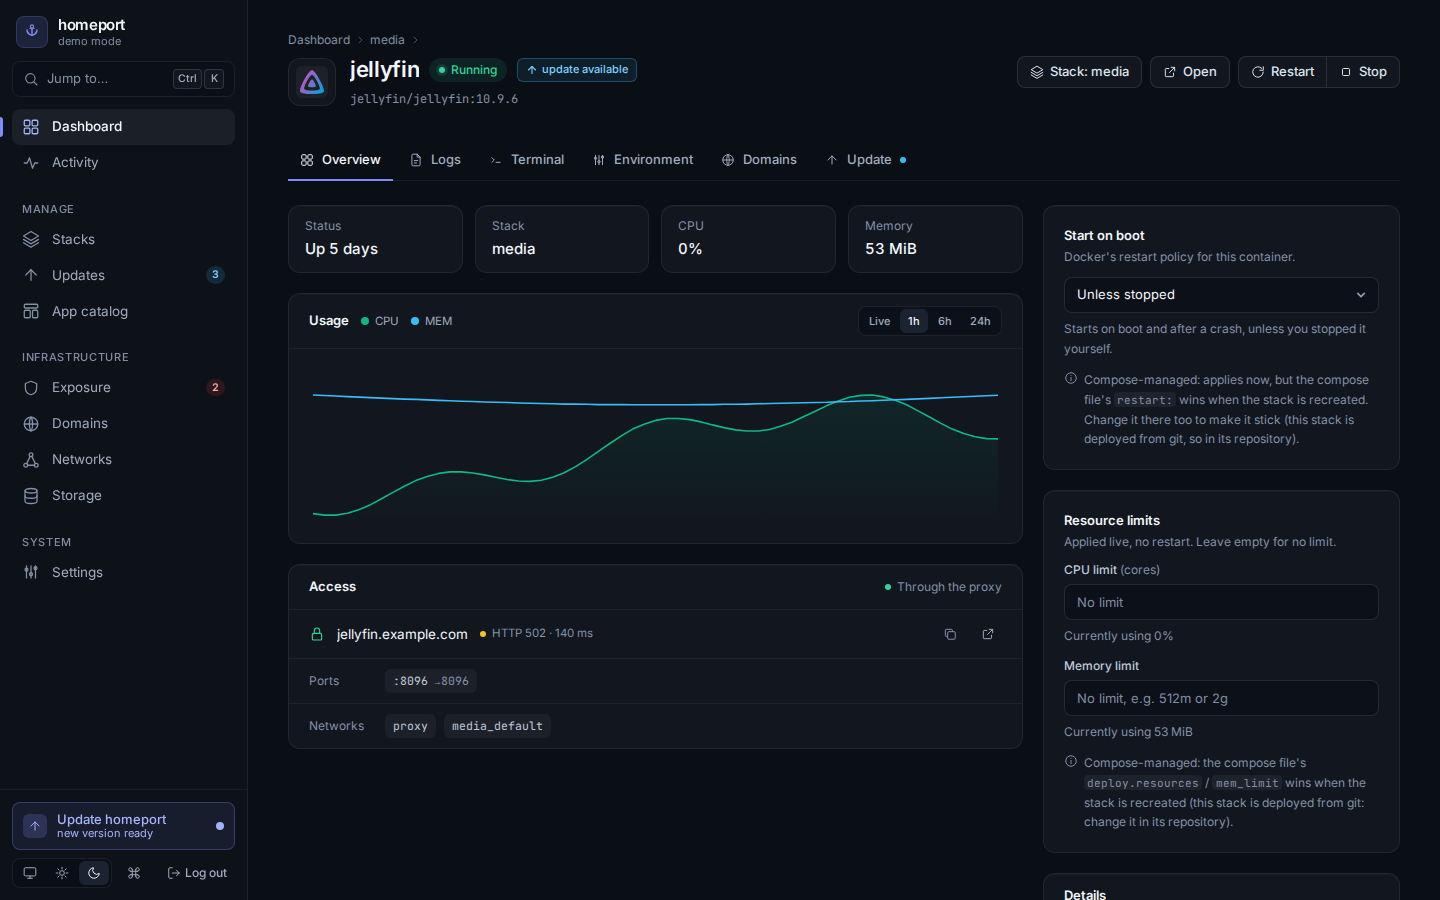
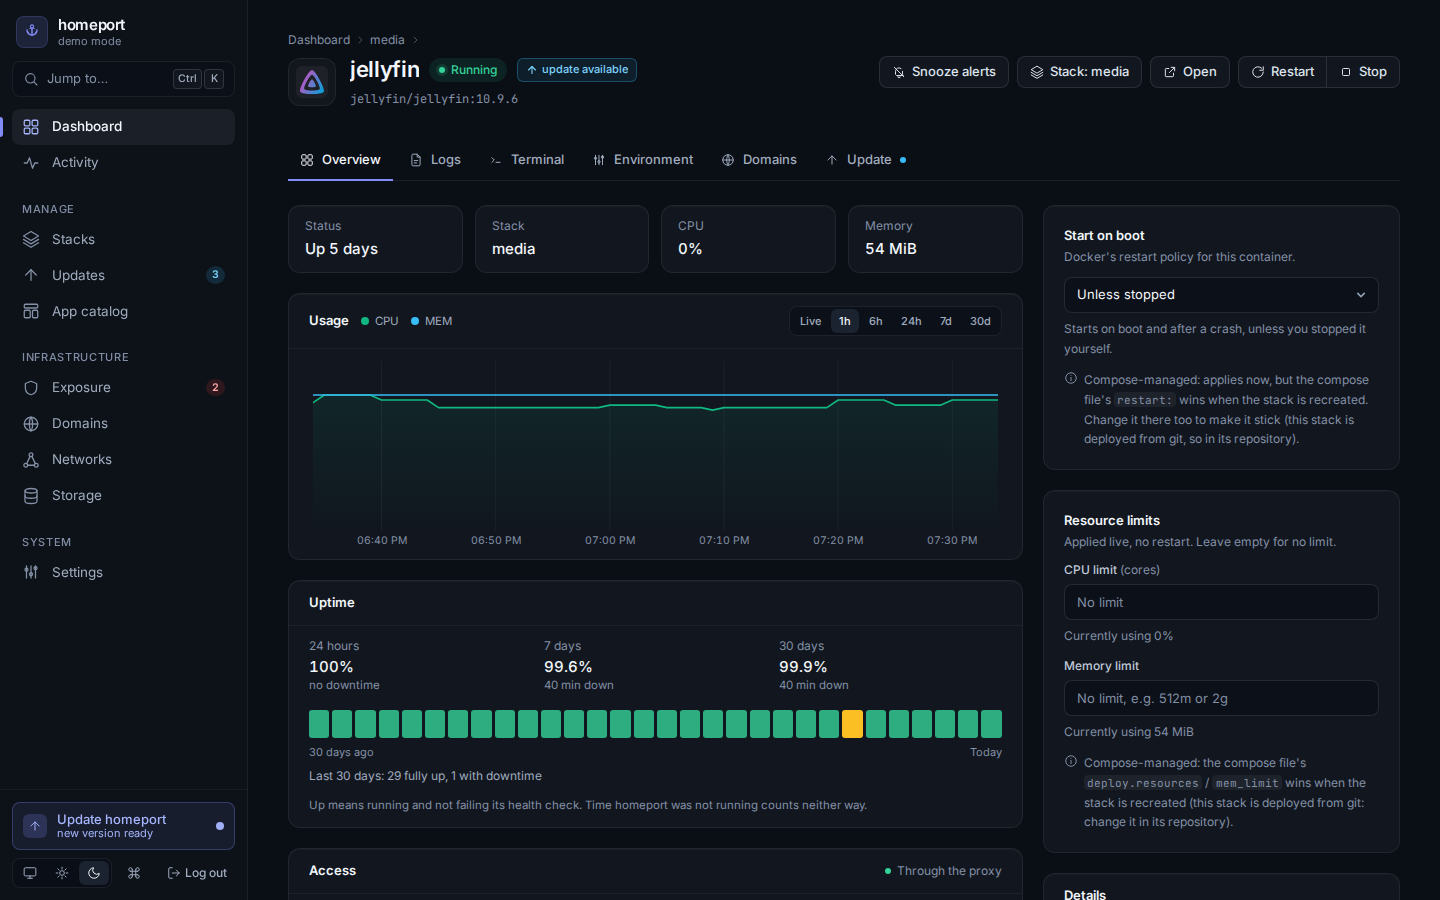
v2.38.0: single sign-on, status page, certificate alerts, snooze, 30-day history and metrics, deploy on push, MCP, more domain sources

diff --git a/README.md b/README.md
@@ -125,6 +125,10 @@ Every container has its own page — overview, logs, terminal, domains, and upda
 
 ![service page](docs/service-page.png)
 
+And, if you switch it on, a public status page for the people who use your apps:
+
+![status page](docs/status-page.png)
+
 ## Quick start
 
 **Try it in 30 seconds** (synthetic fleet, no Docker access needed):

diff --git a/CHANGELOG.md b/CHANGELOG.md
@@ -1,6 +1,6 @@
 # Changelog
 
-## v2.38.0 (2026-11-25)
+## v2.38.0 (2026-11-27)
 
 ### New: single sign-on (OpenID Connect)
 
